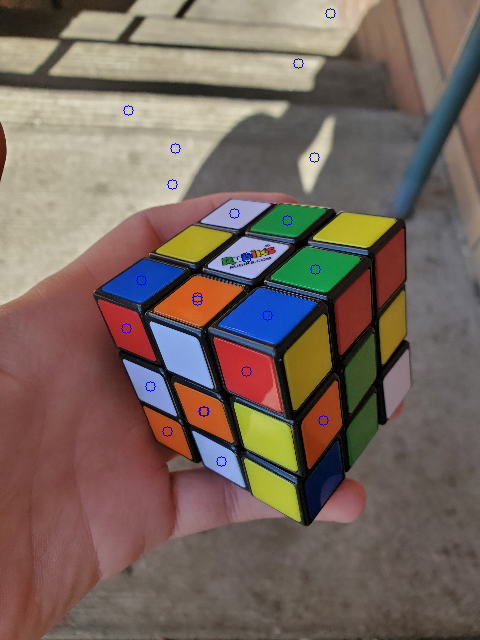
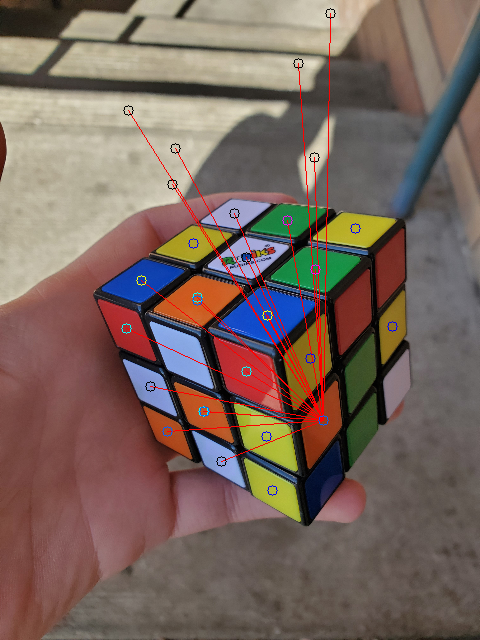
refactor and centroidProcess

diff --git a/main.py b/main.py
@@ -3,8 +3,9 @@ import sys
 import cv2
 import faceMap
 import time
-from imageProcess import get_centroids
-from centroidProcess import get_lines
+from classes import Cube, Sticker
+from imageProcess import get_faces
+from centroidProcess import format_faces
 from faceMap import setFaces 
 from rubik_solver import utils
 
@@ -20,118 +21,29 @@ for i in sys.argv[1:]:
     else:
         images.append(i)
 
-# colors are chars, 'Y', 'B', 'R', 'G', 'O', 'W'
-
-class Cube:
-    def __init__(self):
-        self.faces = 0
-        self.notatedList = ['-' for i in range(54)]
-        
-    def solution(self):
-        print("TODO: Cube.solution()")
-
-# faces are a 3x3 list of ints, facesData will be two of these,
-# joined so that the final column of the first is adjacent to 
-# the first column of the last
-    def addFace(self, facesData): 
-        self.faces += faceMap(self.notatedList, facesData)
-
-    def completeCube(self):
-        return self.notatedList.count('-') == 0
-
-    def printCube(self): #could be improved to cube net
-        print()
-        counter = 0
-        for i in range(6):
-            for j in range(9):
-                print(self.notatedList[counter], end='')
-                counter += 1
-            print()
-        print()
-
-    def solve(self):
-        if not self.completeCube():
-            print("Cube is not yet complete! Cannot solve.")
-            return
-        print(utils.solve(''.join(self.notatedList), 'Kociemba'))
-        
-
 cube = Cube()
 
-
-'''
-f1 = [[0 for j in range(3)] for i in range(3)]
-f2 = [[0 for j in range(3)] for i in range(3)]
-f3 = [[0 for j in range(3)] for i in range(3)]
-f4 = [[0 for j in range(3)] for i in range(3)]
-f5 = [[0 for j in range(3)] for i in range(3)]
-f6 = [[0 for j in range(3)] for i in range(3)]
-
-input1 = 'ywboowwry'
-input2 = 'yryoybogw'
-
-input3 = 'rgwrgyobr'
-input4 = 'owwrrybyr'
-
-input5 = 'gbrywwgbo'
-input6 = 'bgggbobog'
-
-inputs = [input1, input2, input3, input4, input5, input6]
-faces = [f1,f2,f3,f4,f5,f6]
-
-count = -1
-for i in range(3):
-    for j in range(3):
-        count += 1
-        for f in range(len(faces)):
-            faces[f][i][j] = inputs[f][count]
-
-setFaces(cube.notatedList, [f1,f2])
-setFaces(cube.notatedList, [f3,f4])
-setFaces(cube.notatedList, [f5,f6])
-
-cube.printCube()
-
-cube.solve()
-'''
+def perFrame(image):
+    image = cv2.resize(image, (int(imW), int(imW*image.shape[0]/image.shape[1])))
+    faces = get_faces(image)
+    for i in faces:
+        cube.setFaces(i)
+        cube.cubeSolve()
+    cv2.imwrite("output.png", image)
 
 
 for im in images:
-    get_lines([])
-    exit()
-    print(im)
     t0 = time.time_ns() 
     image = cv2.imread(im)
-    image = cv2.resize(image, (int(imW), int(imW*image.shape[0]/image.shape[1])))
-    cents = get_centroids(image)
-    #centroids are mostly correct, some trouble with yellow and red
-    combinedCents = []
-    for i in cents[1:]:
-        for j in i:
-            combinedCents.append(j)
-
-    print(len(combinedCents))
-    lines = get_lines(combinedCents)
-    #(end1, end2, middle point)
-    for i in lines:
-        cv2.line(image, tuple(np.int32(combinedCents[i[0]])), tuple(np.int32(combinedCents[i[1]])), (0,0,255), 1)
-    
-    for c in combinedCents:
-        cv2.circle(image, tuple(np.int32(c)), 5, (255,0,0))
-
-    cv2.imwrite("output.png", image)
+    perFrame(image)
     print("took %f seconds" %((time.time_ns()-t0)/100000000))
 
-if cube.completeCube():
-    print(cube.solution())
-    exit()
+cube.cubeSolve()
 
 for v in videos:
     print("TODO: process videos")
 
-if cube.completeCube():
-    print(cube.solution())
-    exit()
+cube.cubeSolve()
 
 print("Sorry, not enough information")
 

diff --git a/centroidProcess.py b/centroidProcess.py
@@ -1,10 +1,43 @@
 import cv2
 import numpy as np
+from collections import defaultdict
 
-max_dist = 50
-triallowance = 3 #units away from midpoint of third point
-# x = allowance/sqrt(1+slope**2)
+def closest(target, poss):
+    return min(poss, key=lambda p: dist(target, p[1]))
 
+def rotate(face, rot):
+    for i in range(rot):
+        face = [face[6], face[3], face[0], face[7], face[4], face[1], face[8], face[5], face[2]]
+    return [face[0].color+face[1].color+face[2].color,
+            face[3].color+face[4].color+face[5].color,
+            face[6].color+face[7].color+face[8].color]
+
+
+#faces is a list of lists with at 9 stickers - colors and positions, left to right, top to bottom
+def format_faces(faces):
+    facePairs =  []
+    toFormat = [[faces[0], faces[1]]]
+    if len(faces) == 2:
+        toFormat.append([faces[1],faces[2]])
+    for f in toFormat:
+        c1 = f[0].pos
+        c2 = f[1].pos
+        re1 = f[0].index(closest(c2, f[0]))
+        #rotations are clockwise
+        rot1 = [None, 1, None, 2, None, 0, None, 3][re1]
+        le2 = f[1].index(closest(c1, f[1]))
+        rot2 = [None, 3, None, 0, None, 2, None, 1][le2]
+        f1 = rotate(f[0], rot1)
+        f2 = rotate(f[1], rot2)
+        facePairs.append[f1,f2]
+    return facePairs
+
+
+
+
+
+
+'''
 def clockwise(p):
     s = 0
     for i in range(len(p)):
@@ -13,35 +46,34 @@ def clockwise(p):
 
 def inTriangle(test, a, b, c): #working as intended
     curr = clockwise([test, a, b])
-    return not(clockwise([test, b, c]) == curr and clockwise([test, c, a]) == curr)
+    return clockwise([test, b, c]) == curr and clockwise([test, c, a]) == curr
 
 def isLine(a, b, c): #where c is the midpoint
     mid = ((a[0]+b[0])/2, (a[1]+b[1])/2)
     perpslope = (b[1]-a[1])/(b[0]-a[0]+.00001) #saves a multiply, like it'll help
     x = triallowance/np.sqrt(1+perpslope**2)
     p1, p2 = (mid[0]+x, mid[1]+perpslope*x), (mid[0]-x, mid[1]-perpslope*x)
-    print(a, b, p1, p2)
-    print(inTriangle(p1, a, b, c))
-    return inTriangle(p1, a, b, c) or inTriangle(p2, a, b, c)
+    #print(a, b, p1, p2)
+    return inTriangle(c, a, b, p1) or inTriangle(c, a, b, p2)
 
 
 #colinear triplets according to whether the middle point is within a triangle formed by the others and an allowance
 def get_lines(centroids):
-    a, b, c = [0,0], [100,100], [52, 52]
-    print(isLine(a, b, c))
-    return []
+    #a, b, c = [0,0], [100,100], [52, 52]
     true, false = 0,0
+    taken = defaultdict(lambda: defaultdict(lambda: []))
     lines = []
     for ip in range(len(centroids)):
         i = centroids[ip]
-        for jp in range(len(centroids)):
+        for jp in range(ip, len(centroids)):
             if ip==jp:
                 continue
             j = centroids[jp]
-            p = (i+j)/2
             for k in range(len(centroids)):
-                if k==jp or k==ip:
+                if k==jp or k==ip or k in taken[ip][jp]:
+                    print(ip, jp, k)
                     continue
+                taken[ip][jp].append(k)
                 if isLine(i, j, centroids[k]):
                     lines.append((ip, jp, k))
                     true += 1
@@ -70,4 +102,4 @@ def get_lines_old(centroids):
 #return 3 lists: centers, edges, and corners
 def get_pieces(lines):
     ret = [[],[],[]]
-
+'''

diff --git a/classes.py b/classes.py
@@ -1,0 +1,41 @@
+
+#colors are chars: y b r g o w
+class Sticker:
+    def __init__(self, color='-', pos=(0,0)):
+        self.color = color
+        self.pos = pos
+
+class Cube:
+    def __init__(self):
+        self.faces = 0
+        self.notatedList = ['-' for i in range(54)]
+
+    def solution(self):
+        print("TODO: Cube.solution()")
+
+# faces are a 3x3 list of ints, facesData will be two of these,
+# joined so that the final column of the first is adjacent to
+# the first column of the last
+    def addFace(self, facesData):
+        self.faces += faceMap(self.notatedList, facesData)
+
+    def completeCube(self):
+        return self.notatedList.count('-') == 0
+
+    def printCube(self): #could be improved to cube net
+        print()
+        counter = 0
+        for i in range(6):
+            for j in range(9):
+                print(self.notatedList[counter], end='')
+                counter += 1
+            print()
+        print()
+
+    def solve(self):
+        if not self.completeCube():
+            print("Cube is not yet complete! Cannot solve.")
+            return
+        print(utils.solve(''.join(self.notatedList), 'Kociemba'))
+
+

diff --git a/imageProcess.py b/imageProcess.py
@@ -19,6 +19,7 @@ def get_centroids(image):
     imageHSV = cv2.cvtColor(image, cv2.COLOR_BGR2HSV)
     centroids = [[] for i in range(len(colors)-1)]
     for c in range(len(colors)-1):
+        print(c)
         mask = cv2.inRange(imageHSV, colors[c][0], colors[c][1])
         mskimg = cv2.bitwise_and(imageHSV, imageHSV, mask=mask)
         if c == 2:
@@ -34,13 +35,9 @@ def get_centroids(image):
 
         if c == 0:
             cv2.imwrite("yellow.png", gim)
-            print(cent)
         for i in range(len(stats)):
-            if c == 0:
-                print(stats[i, cv2.CC_STAT_AREA])
             if areaLo < stats[i, cv2.CC_STAT_AREA] < areaHi:
                 centroids[c].append(cent[i])
-
 
     return centroids
 
